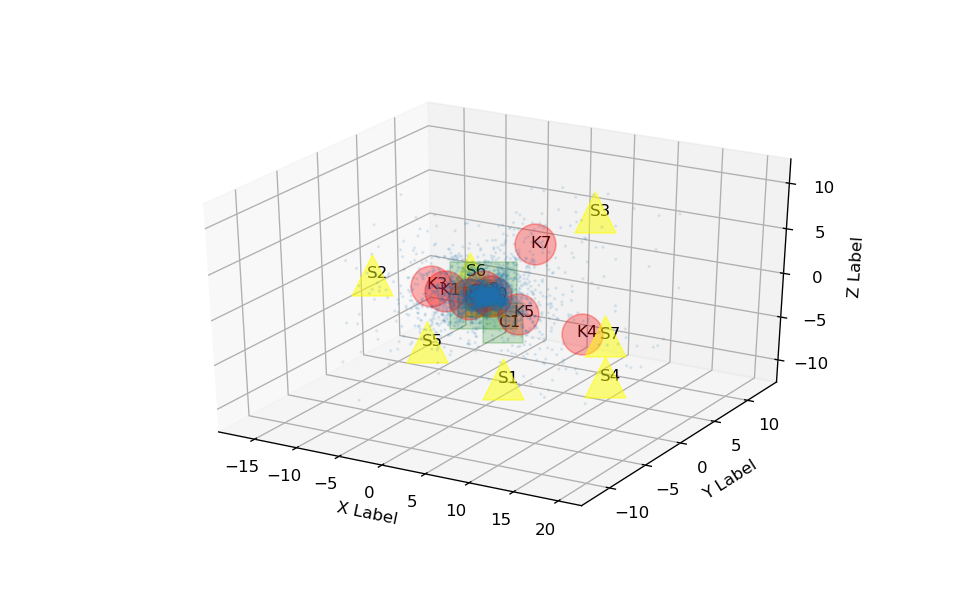
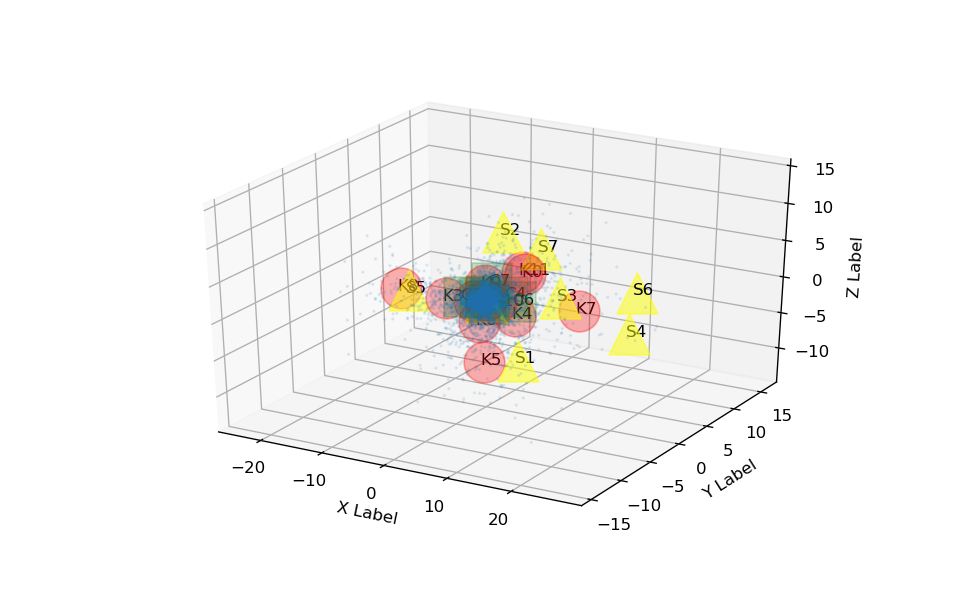
fix twice pca process

diff --git a/API/client/server/Step3/algorithms/Combined.py b/API/client/server/Step3/algorithms/Combined.py
@@ -17,16 +17,13 @@ class Combined:
         self.connected = connected
 
     def kmeansPlot(self, ax, fig):
-        # drow kmeans clusters
-        ax.scatter(self.kmeans.km.cluster_centers_[:, 0], self.kmeans.km.cluster_centers_[:, 1],
-                   self.kmeans.km.cluster_centers_[:, 2], s=600, c=self.kmeans.color, marker='o',
-                   depthshade=False, alpha=0.3)
-
-        # drow clusters label
-        cluster_name = ["K" + str(i) for i in range(len(self.kmeans.km.cluster_centers_))]
-        for i, name in enumerate(cluster_name):
-            ax.text(self.kmeans.km.cluster_centers_[i, 0] - 0.3, self.kmeans.km.cluster_centers_[i, 1] - 0.3,
-                    self.kmeans.km.cluster_centers_[i, 2] - 0.3, name, None, alpha=1)
+        # drow the clusters and labels
+        for name, vector in self.kmeans.clustersNames().items():
+            #clusters
+            ax.scatter(vector[0], vector[1], vector[2],
+                       s=600, c=self.kmeans.color, marker='o', depthshade=False, alpha=0.3)
+            #labels
+            ax.text(vector[0] - 0.3, vector[1] - 0.3, vector[2] - 0.3, name, None)
 
         # # drow clusters label
         # cluster_name = ["K" + str(i) for i in range(len(self.kmeans.km.cluster_centers_))]
@@ -50,14 +47,13 @@ class Combined:
         #     fig.canvas.mpl_connect('button_release_event', update_position)
 
     def spectralPlot(self, ax, fig):
-        # drow spectral clusters
-        for i in range(len(self.spectral.CenterClusterList)):
-            center = self.spectral.CenterClusterList[i]
-            ax.scatter(center[0], center[1], center[2], c=self.spectral.color, marker='^', s=600,
-                       depthshade=False, alpha=0.5)
+        # drow the clusters and labels
+        for name, vector in self.spectral.clustersNames().items():
+            # clusters
+            ax.scatter(vector[0], vector[1], vector[2], c=self.spectral.color, marker='^', s=600, depthshade=False, alpha=0.5)
 
-            # drow clusters label
-            ax.text(center[0] - 0.3, center[1] - 0.3, center[2] - 0.3, "S" + str(i), None, alpha=1)
+            # labels
+            ax.text(vector[0] - 0.3, vector[1] - 0.3, vector[2] - 0.3, name, None)
 
             # # drow clusters label
             # x2, y2, _ = proj3d.proj_transform(center[0], center[1], center[2], ax.get_proj())
@@ -78,21 +74,13 @@ class Combined:
             # fig.canvas.mpl_connect('button_release_event', update_position)
 
     def connectedPlot(self, ax, fig):
-        # drow connected clusters
-        ax.scatter(
-            xs=self.connected.component_centers[:8, 0],
-            ys=self.connected.component_centers[:8, 1],
-            zs=self.connected.component_centers[:8, 2],
-            s=self.connected.component_radiuses[:8],
-            c=self.connected.color,
-            marker='s',
-            depthshade=False, alpha=0.2)
-
-        # drow clusters label
-        cluster_name = ["C" + str(i) for i in range(min(len(self.connected.component_centers), 8))]
-        for i, name in enumerate(cluster_name):
-            ax.text(self.connected.component_centers[i, 0] - 0.3, self.connected.component_centers[i, 1] - 0.3,
-                    self.connected.component_centers[i, 2] - 0.3, name, None, alpha=1)
+        # drow the clusters and labels
+        for name, vector in self.connected.clustersNames().items():
+            #clusters
+            ax.scatter(vector[0], vector[1], vector[2],
+                       s=600, c=self.connected.color, marker='s', depthshade=False, alpha=0.2)
+            #labels
+            ax.text(vector[0] - 0.3, vector[1] - 0.3, vector[2] - 0.3, name, None)
 
         # # drow clusters label
         # cluster_name = ["C" + str(i) for i in range(min(len(self.connected.component_centers), 6))]
@@ -121,8 +109,8 @@ class Combined:
         ax = fig.add_subplot(projection='3d')
 
         # drow all the nodes in the graph
-        ax.scatter(self.kmeans.vectors_3dim[:, 0], self.kmeans.vectors_3dim[:, 1], self.kmeans.vectors_3dim[:, 2], s=1,
-                   alpha=0.1)
+        ax.scatter(self.kmeans.vectors_3dim[:, 0], self.kmeans.vectors_3dim[:, 1], self.kmeans.vectors_3dim[:, 2],
+                   s=1, alpha=0.1)
 
         if mode == "kmeans+spectral":
             # drow kmeans clusters

diff --git a/API/client/server/application.py b/API/client/server/application.py
@@ -27,7 +27,7 @@ import time
 
 # =============================================== models ================================================ #
 
-
+plotter = None
 # =============================================== main app ================================================#
 # Configurations
 all_algorithms = ["base", "kmeans", "spectral", "connected", "kmeans+spectral", "connected+kmeans",
@@ -187,6 +187,8 @@ def pca():
         path = get_tmpfile(fname)
         model = KeyedVectors.load(path, mmap='r')
 
+        # using a global keyword
+        global plotter
         # PCA from 64D to 3D
         plotter = Plotter.Plotter(G, model)
         plotter.SaveAll(prefix)
@@ -227,22 +229,22 @@ def getLabels():
     app.logger.info('got /getLabels request with skip = %s and dataset = %s' % (skip, dataset))
     if not skip:
         # Taking G from memory
-        G = networkx.read_multiline_adjlist("." + "/data" + "/load/" + dataset + "/graph.adjlist")
-
-        # Taking Memory from memory
-        fname = "model.kv"
-        path = get_tmpfile(fname)
-        model = KeyedVectors.load(path, mmap='r')
-
-        # convert the json file to list of Conversation objects
-        if dataset == "pan12-sexual-predator-identification-training-corpus-2012-05-01":
-            data = bz2.BZ2File("./data/start/" + "conversations_train_dataset_after_remove.pbz2",
-                               'rb')  # 40820 conversations
-        elif dataset == "pan12-sexual-predator-identification-test-corpus-2012-05-17":
-            data = bz2.BZ2File("./data/start/" + "conversations_test_dataset_after_remove.pbz2",
-                               'rb')  # 40820 conversations
-
-        plotter = Plotter.Plotter(G, model)
+        # G = networkx.read_multiline_adjlist("." + "/data" + "/load/" + dataset + "/graph.adjlist")
+        #
+        # # Taking Memory from memory
+        # fname = "model.kv"
+        # path = get_tmpfile(fname)
+        # model = KeyedVectors.load(path, mmap='r')
+        #
+        # # convert the json file to list of Conversation objects
+        # if dataset == "pan12-sexual-predator-identification-training-corpus-2012-05-01":
+        #     data = bz2.BZ2File("./data/start/" + "conversations_train_dataset_after_remove.pbz2",
+        #                        'rb')  # 40820 conversations
+        # elif dataset == "pan12-sexual-predator-identification-test-corpus-2012-05-17":
+        #     data = bz2.BZ2File("./data/start/" + "conversations_test_dataset_after_remove.pbz2",
+        #                        'rb')  # 40820 conversations
+        #
+        # plotter = Plotter.Plotter(G, model)
 
         # Bert Starting Here
 
@@ -270,14 +272,14 @@ def bert():
     # Taking G from memory
     G = networkx.read_multiline_adjlist("." + "/data" + "/load/" + dataset + "/graph.adjlist")
 
-    # Taking Memory from memory
-    fname = "model.kv"
-    path = get_tmpfile(fname)
-    model = KeyedVectors.load(path, mmap='r')
-
-    # convert the json file to list of Conversation objects
-    basepath = os.path.abspath(".")
-    op = "\\" if sys.platform.startswith('win') else "/"
+    # # Taking Memory from memory
+    # fname = "model.kv"
+    # path = get_tmpfile(fname)
+    # model = KeyedVectors.load(path, mmap='r')
+    #
+    # # convert the json file to list of Conversation objects
+    # basepath = os.path.abspath(".")
+    # op = "\\" if sys.platform.startswith('win') else "/"
 
     if dataset == "pan12-sexual-predator-identification-training-corpus-2012-05-01":
         conversations = loadDataset2Conversation.loadConversations(
@@ -290,7 +292,7 @@ def bert():
             "/pan12-sexual-predator-identification-test-corpus-2012-05-21"
             "/pan12-sexual-predator-identification-test-corpus-2012-05-17")
 
-    plotter = Plotter.Plotter(G, model)
+    # plotter = Plotter.Plotter(G, model)
 
     # Get all algorithms dictionary of center by cluster name
     (kmeans_centers_by_name, spectral_centers_by_name, connected_center_by_name) = plotter.getAllCentersName()

diff --git a/API/client/server/Step3/algorithms/ConnectedComponents.py b/API/client/server/Step3/algorithms/ConnectedComponents.py
@@ -7,6 +7,7 @@ from sklearn.preprocessing import MinMaxScaler
 
 np.set_printoptions(threshold=np.inf)
 SIZE = 160
+MAX_CLUSTERS_ANOUNT = 8
 # matplotlib.use('MacOSX')
 
 def ConnectedComponents_center(set_3dim_vec):
@@ -65,20 +66,13 @@ class ConnectedComponents:
         #drow all the nodes in the grapg
         ax.scatter(self.vectors_3dim[:, 0], self.vectors_3dim[:, 1], self.vectors_3dim[:, 2], s=1, alpha=0.1)
 
-        #drow the clusters
-        ax.scatter(
-            xs=self.component_centers[:8,0],
-            ys=self.component_centers[:8,1],
-            zs=self.component_centers[:8,2],
-            s=self.component_radiuses[:8],
-            c=self.color, marker = 's',
-            depthshade=False, alpha=0.7)
-
-        # drow clusters label
-        cluster_name = ["C" + str(i) for i in range(min(len(self.component_centers), 8))]
-        for i, name in enumerate(cluster_name):
-            ax.text(self.component_centers[i, 0] - 0.3, self.component_centers[i, 1] - 0.3,
-                    self.component_centers[i, 2] - 0.3, name, None)
+        # drow the clusters and labels
+        for name, vector in self.clustersNames().items():
+            #clusters
+            ax.scatter(vector[0], vector[1], vector[2],
+                       s=600, c=self.color, marker='s', depthshade=False, alpha=0.7)
+            #labels
+            ax.text(vector[0] - 0.3, vector[1] - 0.3, vector[2] - 0.3, name, None)
 
         # # drow clusters label
         # cluster_name = ["C" + str(i) for i in range(min(len(self.component_centers), 6))]
@@ -112,7 +106,8 @@ class ConnectedComponents:
     def clustersNames(self):
         connected_centers_name = {}
         for i, center in enumerate(self.component_centers):
-            connected_centers_name["C" + str(i)] = center
+            if i < MAX_CLUSTERS_ANOUNT:
+                connected_centers_name["C" + str(i)] = center
         return connected_centers_name
 
 

diff --git a/API/client/server/Step3/algorithms/KMeans.py b/API/client/server/Step3/algorithms/KMeans.py
@@ -43,15 +43,13 @@ class KMeans:
         # drow all the nodes in the graph
         ax.scatter(self.vectors_3dim[:, 0], self.vectors_3dim[:, 1], self.vectors_3dim[:, 2], s=1, alpha=0.1)
 
-        # drow the clusters
-        ax.scatter(self.km.cluster_centers_[:, 0], self.km.cluster_centers_[:, 1], self.km.cluster_centers_[:, 2],
-                   s=600, c=self.color, marker='o', depthshade=False, alpha=0.7)
-
-        # drow clusters label
-        cluster_name = ["K" + str(i) for i in range(len(self.km.cluster_centers_))]
-        for i, name in enumerate(cluster_name):
-            ax.text(self.km.cluster_centers_[i, 0] - 0.3, self.km.cluster_centers_[i, 1] - 0.3,
-                    self.km.cluster_centers_[i, 2] - 0.3, name, None)
+        # drow the clusters and labels
+        for name, vector in self.clustersNames().items():
+            #clusters
+            ax.scatter(vector[0], vector[1], vector[2],
+                       s=600, c=self.color, marker='o', depthshade=False, alpha=0.7)
+            #labels
+            ax.text(vector[0] - 0.3, vector[1] - 0.3, vector[2] - 0.3, name, None)
 
         # cluster_name = ["K" + str(i) for i in range(len(self.km.cluster_centers_))]
         # for i, name in enumerate(cluster_name):

diff --git a/API/client/server/Step3/Plotter.py b/API/client/server/Step3/Plotter.py
@@ -23,7 +23,7 @@ class Plotter:
 
     # G is networkx
     # model is after node2vec embedded
-    def __init__(self, G , model):
+    def __init__(self, G, model):
         self.all_vectors_after_pca = make_PCA(model)
 
         # Make base graph (without algorithm)
@@ -84,17 +84,4 @@ class Plotter:
         self.Combined.getPlot("kmeans+spectral+connected").savefig("." + prefix + "/connected+kmeans+spectral.png")
 
     def getAllCentersName(self):
-        (kmeans_centers, spectral_centers, connected_center) = (self.kmeans.km.cluster_centers_,self.spectral.CenterClusterList,self.cc.component_centers)
-        kmeans_centers_name = {}
-        for i,center in enumerate(kmeans_centers):
-            kmeans_centers_name["K"+str(i)] = center
-
-        spectral_centers_name = {}
-        for i, center in enumerate(spectral_centers):
-            spectral_centers_name["S" + str(i)] = center
-
-        connected_centers_name = {}
-        for i, center in enumerate(connected_center):
-            connected_centers_name["C" + str(i)] = center
-
-        return (kmeans_centers_name, spectral_centers_name, connected_centers_name)
+        return (self.kmeans.clustersNames(), self.spectral.clustersNames(), self.cc.clustersNames())

diff --git a/API/client/server/Step3/algorithms/SpectralClustering.py b/API/client/server/Step3/algorithms/SpectralClustering.py
@@ -97,13 +97,13 @@ class SpectralClustering:
         #drow all the nodes in the grapg
         ax.scatter(self.vectors_3dim[:, 0], self.vectors_3dim[:, 1], self.vectors_3dim[:, 2], s=1, alpha=0.1)
 
-        #drow the clusters
-        for i in range(len(self.CenterClusterList)):
-            center = self.CenterClusterList[i]
-            ax.scatter(center[0],center[1],center[2], c=self.color, marker='^', s=600,depthshade=False, alpha=0.7)
+        # drow the clusters and labels
+        for name, vector in self.clustersNames().items():
+            # clusters
+            ax.scatter(vector[0],vector[1],vector[2], c=self.color, marker='^', s=600,depthshade=False, alpha=0.7)
 
-            # drow clusters label
-            ax.text(center[0] - 0.3, center[1] - 0.3, center[2] - 0.3, "S"+str(i), None)
+            # labels
+            ax.text(vector[0] - 0.3, vector[1] - 0.3, vector[2] - 0.3, name, None)
 
             # # drow clusters label
             # x2, y2, _ = proj3d.proj_transform(center[0],center[1],center[2], ax.get_proj())

diff --git a/API/client/server/Bert/clustersBy3DVec.py b/API/client/server/Bert/clustersBy3DVec.py
@@ -2,7 +2,7 @@ import math
 import numpy as np
 import itertools
 
-R = 2.3
+R = 1.9
 MIN_NODES_FOR_MATCH = 1
 
 
@@ -127,7 +127,7 @@ class clustersBy3DVec:
         # generate all to valid combinations
         kmeans_names = [tuple([cluster_name]) for cluster_name in self.kmeans_clusters]
         spectral_names = [tuple([cluster_name]) for cluster_name in self.spectral_clusters]
-        connected_names = [tuple([cluster_name]) for cluster_name, i in zip(self.connected_clusters, range(10))]
+        connected_names = [tuple([cluster_name]) for cluster_name in self.connected_clusters]
         valid_combinations = kmeans_names + spectral_names + connected_names
 
         for combination in all_possible_combinations:
